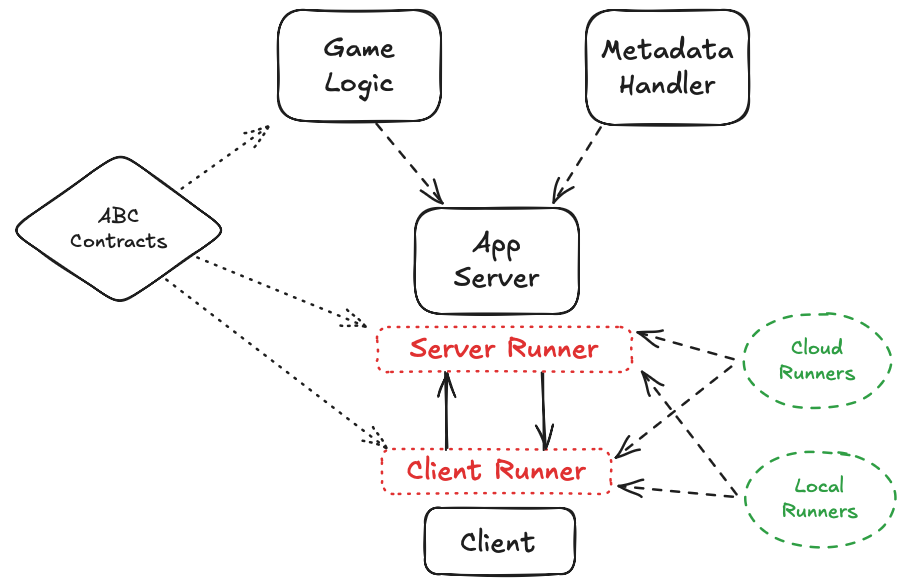
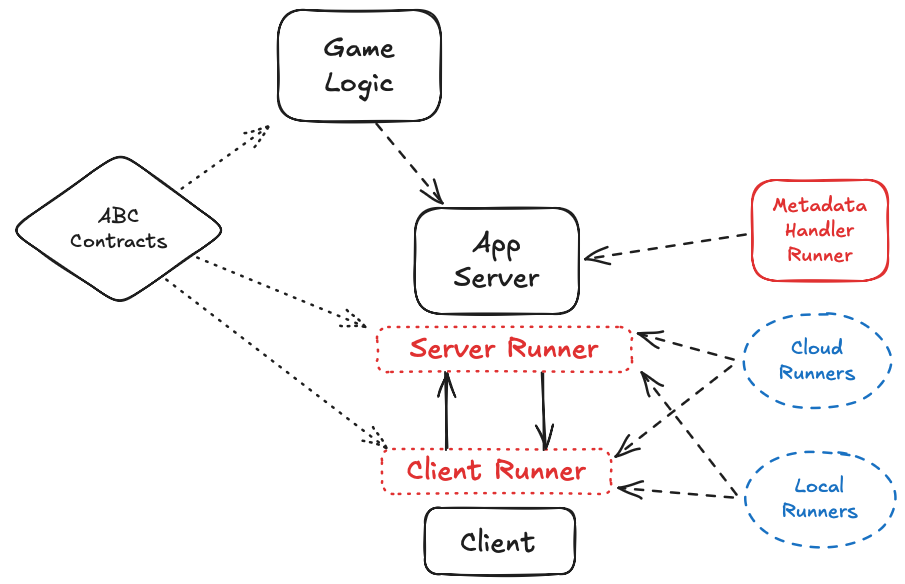
update readme

diff --git a/README.md b/README.md
@@ -2,10 +2,11 @@
 
 ![Project Architecture Diagram with Runners highlighted](docs/game-framework-runners.png)
 
+Runner contains:
+
 Other repos in this project:
 
 - [Game Framework - Runners](https://github.com/threnjen/game-framework-runners)
-- [Game Framework - Metadata Handler](https://github.com/threnjen/game-framework-metadata-handler)
 - [Game Framework - App Server](https://github.com/threnjen/game-framework-app-server)
 - [Game Framework - Contracts](https://github.com/threnjen/game-framework-contracts)
 - [Sample Game UI](https://github.com/threnjen/sample-game-ui)
